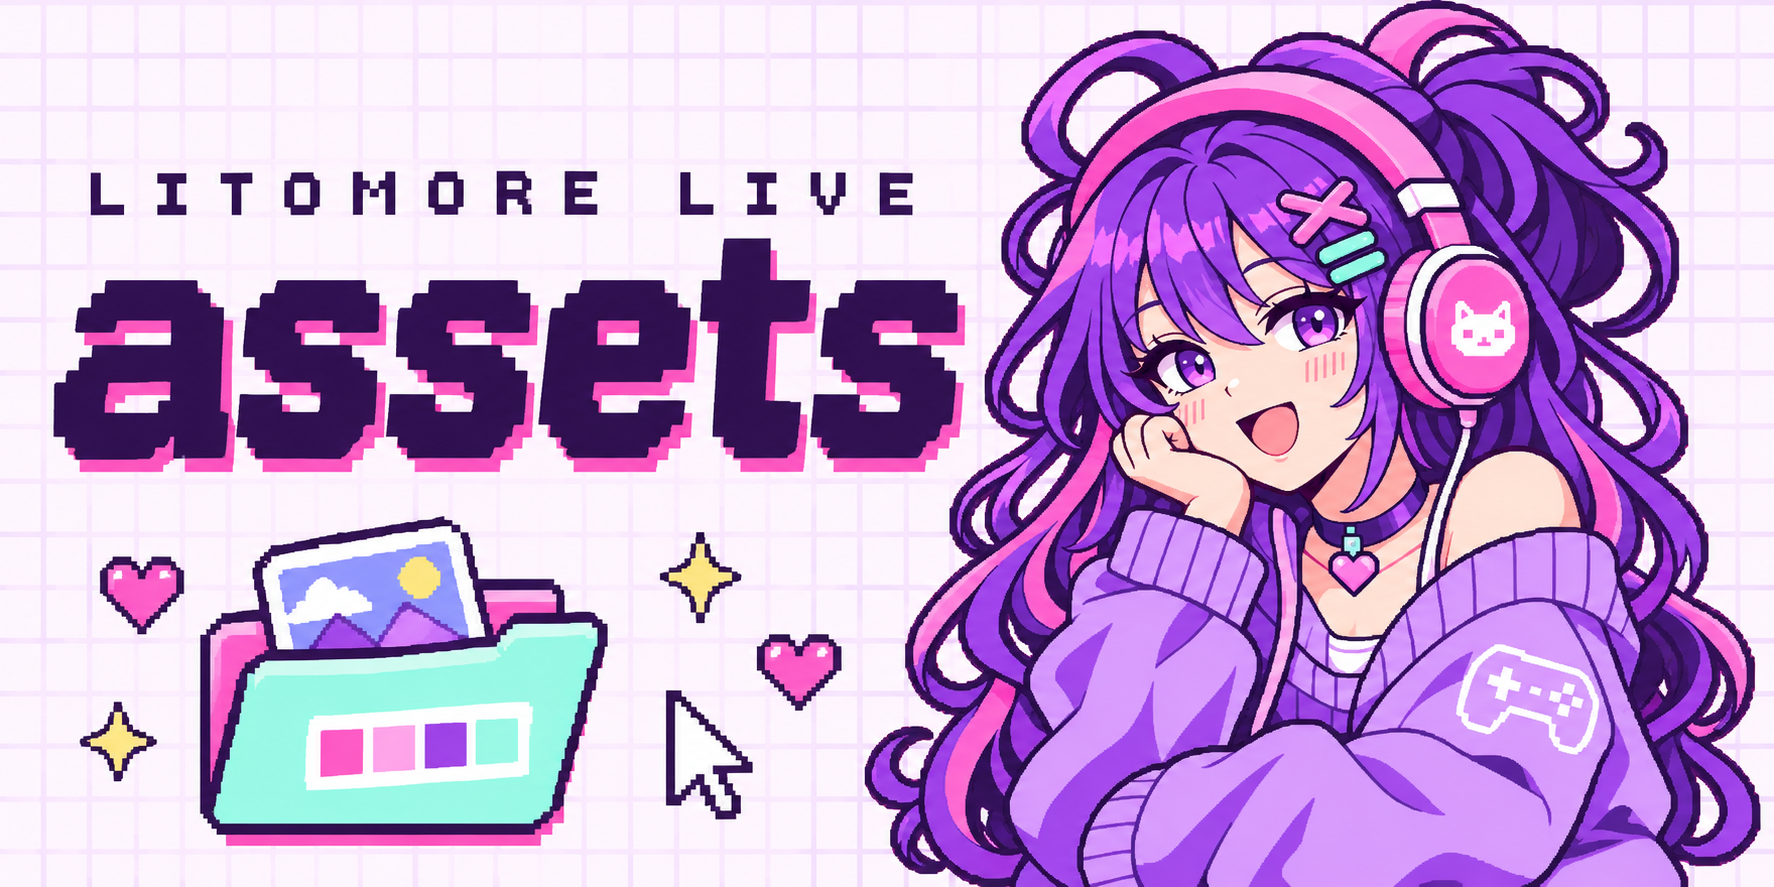
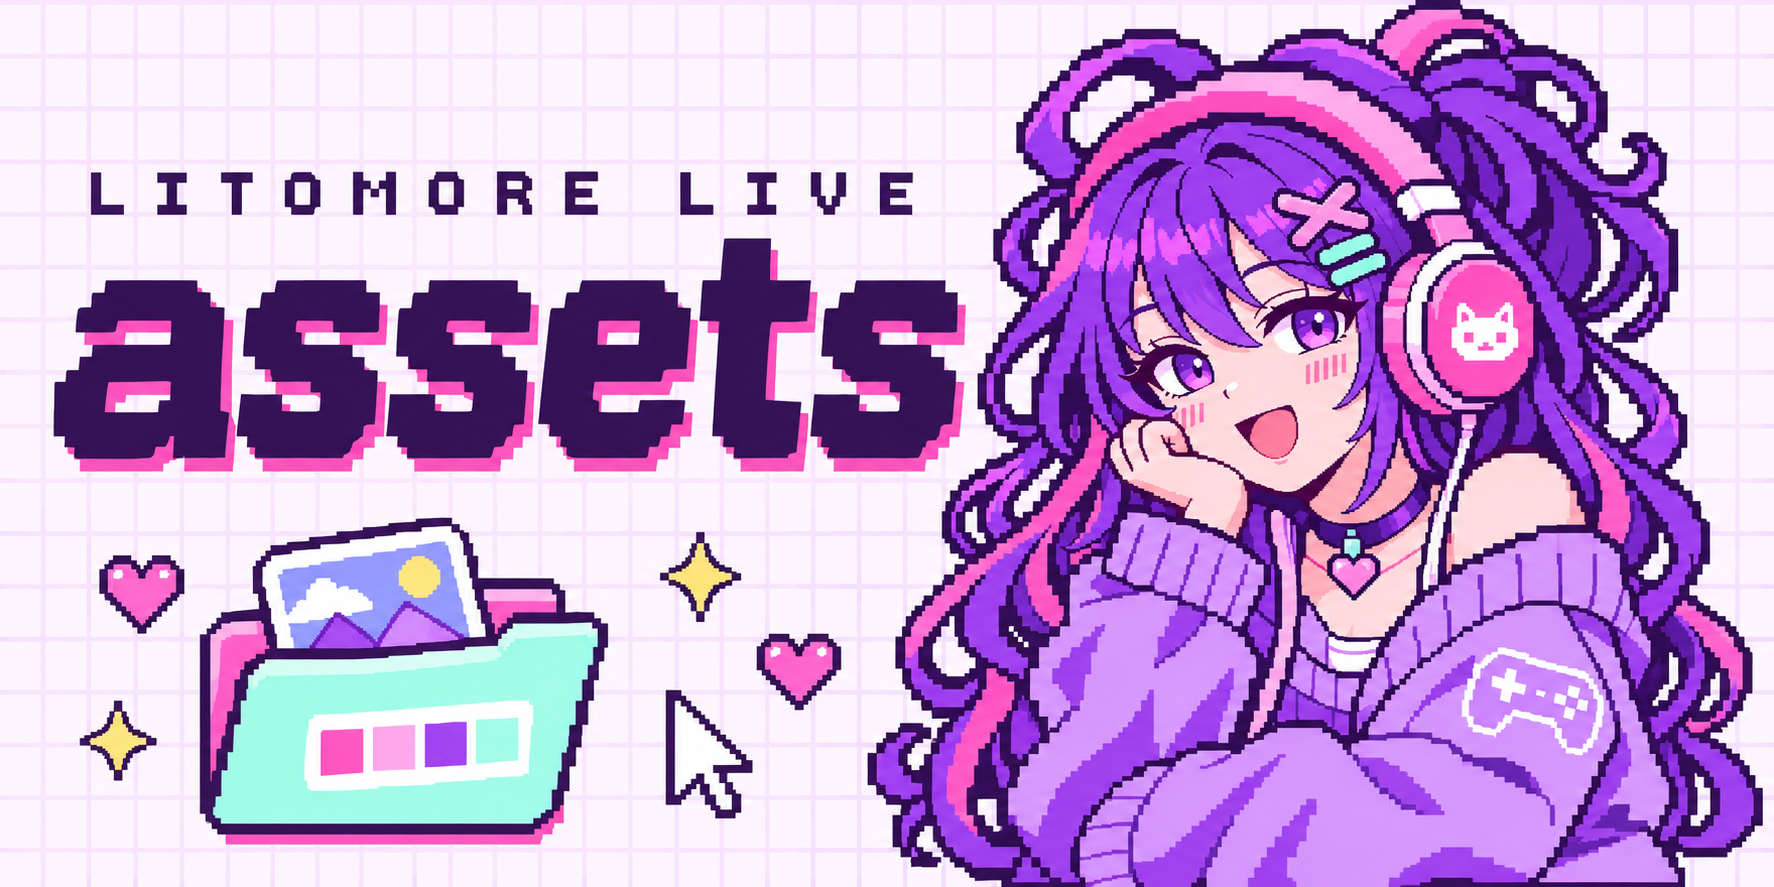
Fix cover image

diff --git a/AGENTS.md b/AGENTS.md
@@ -1,3 +1,5 @@
 # 资产维护
 
 生成或修改直播间封面前，先阅读 `covers/live/README.md`，遵循其中的构图、裁切、风格与导出约定。
+
+仓库封面的人物也须保留原始角色的方块像素、阶梯轮廓和硬边色块，不能只有文字与装饰保持像素风、人物却变成平滑插画。检查 PNG 与无损 WebP 一致，并保持人物原比例。
